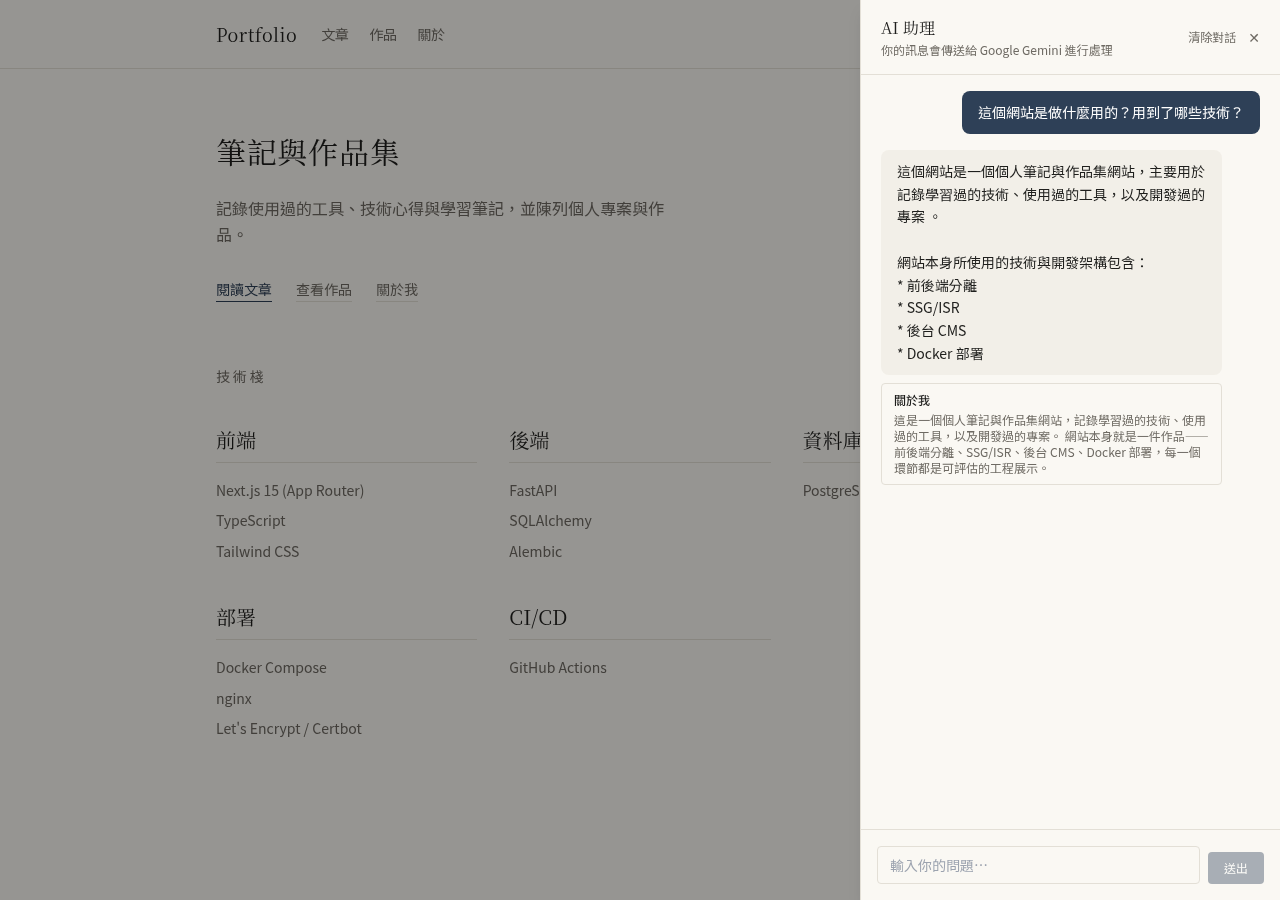
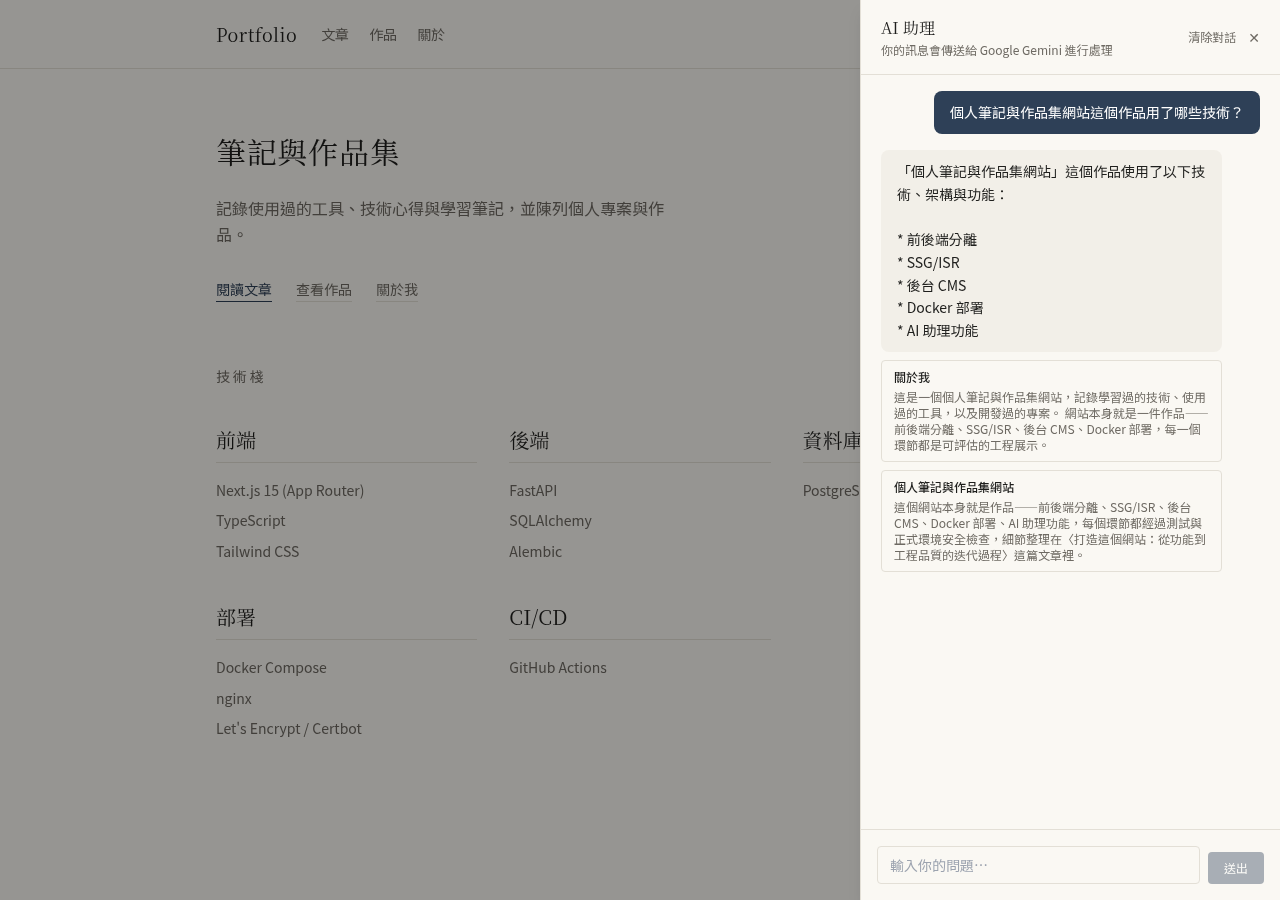
AI 助理檢索範圍加入已發布作品，補上規格書「第二階段」內容來源
- retriever.py 新增掃描已發布 Project（跟文章一樣，草稿一律排除），來源 ID 格式 project:{id}#chunk-{index}、URL 指向 /projects/{slug}，跟現有的 article/about 走同一套 chunking／relevance scoring
- 新增測試：retrieval 層驗證找得到已發布作品、排除草稿作品；聊天 API 層驗證草稿作品內容不會外洩、引用作品來源的完整 grounded 回答情境
- 修正一個本機測試才會踩到的問題：_keyword() 測試輔助函式原本用「測試主題」當前綴，這個字面上的「測試」剛好會跟本機資料庫裡真實存在、內容提到「測試」的文章/作品意外命中，導致原本預期「找不到相關內容」的測試改用真的 Gemini 呼叫、因為假 API key 而失敗；CI 用全新空資料庫不會踩到，但本機重跑測試會，改用不會跟真實內容衝突的字面
- 用瀏覽器對正式在跑的網站（已經有真的可用的 Gemini key）驗證整條路徑：確認回答會同時引用「關於我」跟一則「作品」，兩種來源類型都正確顯示、可點擊；用這張更完整的截圖換掉 README 裡原本只有單一來源的成功畫面
- 191 個後端測試全過，coverage 77%

過程中發現並修正一個副作用：本機用 docker compose exec backend pytest 重跑測試時，會跟正式在跑的網站共用同一個資料庫；AI 設定的「啟用某個 provider」邏輯會在同一個 transaction 內把所有 provider 都設成停用、再啟用目標 provider，測試裡建立/停用自己的 provider 設定時，順帶把使用者真正在用的那筆也停用了。已手動恢復，之後跑本機測試後會記得檢查 /api/ai/status 是否還是啟用狀態。

Changed region(s): [[0.6875, 0.1867, 0.9375, 0.6222], [0.7188, 0.0933, 0.9062, 0.1556]]

diff --git a/backend/tests/test_ai_chat_endpoint.py b/backend/tests/test_ai_chat_endpoint.py
@@ -44,8 +44,27 @@ def _publish_article(auth_client, cleanup, keyword: str, content_suffix: str = "
     return article
 
 
+def _publish_project(auth_client, cleanup, keyword: str):
+    res = auth_client.post(
+        "/api/projects",
+        json={
+            "title": f"聊天測試作品 {keyword}",
+            "content_md": f"這個作品介紹 {keyword} 相關的技術細節。",
+            "status": "published",
+        },
+    )
+    assert res.status_code == 201
+    project = res.json()
+    cleanup("projects", project["id"])
+    return project
+
+
 def _keyword() -> str:
-    return f"測試主題{uuid.uuid4().hex[:8]}"
+    # 故意不用「測試」這種常見詞當前綴——本機開發資料庫裡真的有提到
+    # 「測試」的正式內容（例如關於這個專案本身的文章／作品），用太
+    # 常見的字當關鍵字前綴，本機重複執行測試時容易跟真實內容意外
+    # 命中，CI 用的是全新空資料庫才不會有這個問題。
+    return f"貓咪打字員{uuid.uuid4().hex[:8]}"
 
 
 def test_chat_returns_safe_error_when_enabled_provider_has_no_adapter(
@@ -177,6 +196,30 @@ def test_chat_returns_grounded_answer_with_valid_citation(auth_client, cleanup, 
 
 
 @respx.mock
+def test_chat_returns_grounded_answer_citing_a_project(auth_client, cleanup, client):
+    keyword = _keyword()
+    project = _publish_project(auth_client, cleanup, keyword)
+    _enable_gemini(auth_client, cleanup)
+    reset_rate_limit(_TEST_CLIENT_KEY)
+    try:
+        chunk_id = f"project:{project['id']}#chunk-0"
+        respx.post(_GEMINI_URL).mock(
+            return_value=_gemini_success(f"這是關於{keyword}的說明 [來源: {chunk_id}]。")
+        )
+
+        res = client.post("/api/ai/chat", json={"message": keyword})
+        assert res.status_code == 200
+        data = res.json()
+        assert data["grounded"] is True
+        assert len(data["sources"]) == 1
+        assert data["sources"][0]["id"] == chunk_id
+        assert data["sources"][0]["source_type"] == "project"
+        assert data["sources"][0]["url"] == f"/projects/{project['slug']}"
+    finally:
+        reset_rate_limit(_TEST_CLIENT_KEY)
+
+
+@respx.mock
 def test_chat_downgrades_to_fallback_when_model_hallucinates_source(auth_client, cleanup, client):
     """模型引用了不存在的 source id（幻覺），後端必須降級成明確拒答，
     不能把沒有真實依據的回答原封不動回給使用者。"""
@@ -212,6 +255,30 @@ def test_chat_never_returns_draft_article_content(auth_client, cleanup, client):
     )
     assert res.status_code == 201
     cleanup("articles", res.json()["id"])
+    _enable_gemini(auth_client, cleanup)
+    reset_rate_limit(_TEST_CLIENT_KEY)
+    try:
+        res = client.post("/api/ai/chat", json={"message": keyword})
+        assert res.status_code == 200
+        data = res.json()
+        assert data["grounded"] is False
+        assert "機密草稿" not in data["answer"]
+    finally:
+        reset_rate_limit(_TEST_CLIENT_KEY)
+
+
+def test_chat_never_returns_draft_project_content(auth_client, cleanup, client):
+    keyword = _keyword()
+    res = auth_client.post(
+        "/api/projects",
+        json={
+            "title": "草稿作品不該被聊天功能看到",
+            "content_md": f"這是關於 {keyword} 的機密草稿內容。",
+            "status": "draft",
+        },
+    )
+    assert res.status_code == 201
+    cleanup("projects", res.json()["id"])
     _enable_gemini(auth_client, cleanup)
     reset_rate_limit(_TEST_CLIENT_KEY)
     try:

diff --git a/backend/app/services/retrieval/retriever.py b/backend/app/services/retrieval/retriever.py
@@ -6,6 +6,7 @@ from sqlalchemy.ext.asyncio import AsyncSession
 
 from app.models.about_content import AboutContent
 from app.models.article import Article, ArticleStatus
+from app.models.project import Project
 
 from .chunking import chunk_markdown
 
@@ -82,10 +83,10 @@ def _chunks_for_source(
 
 
 async def retrieve(db: AsyncSession, query: str, top_k: int = 5) -> list[RetrievedChunk]:
-    """關鍵字檢索：只從已發布文章與「關於我」內容取材，依關鍵字命中
-    次數排序，回傳最相關的前 top_k 個片段。沒有任何內容通過最低相關度
-    門檻時回傳空列表——呼叫端應據此判斷是否要讓模型明確拒答，而不是
-    硬塞不相關的內容進 prompt。
+    """關鍵字檢索：只從已發布文章、已發布作品與「關於我」內容取材，
+    依關鍵字命中次數排序，回傳最相關的前 top_k 個片段。沒有任何內容
+    通過最低相關度門檻時回傳空列表——呼叫端應據此判斷是否要讓模型
+    明確拒答，而不是硬塞不相關的內容進 prompt。
     """
     query_tokens = _tokenize(query)
     if not query_tokens:
@@ -105,6 +106,19 @@ async def retrieve(db: AsyncSession, query: str, top_k: int = 5) -> list[Retriev
                 title=article.title,
                 url=f"/blog/{article.slug}",
                 source_type="article",
+            )
+        )
+
+    projects_result = await db.execute(select(Project).where(Project.status == "published"))
+    for project in projects_result.scalars().all():
+        candidates.extend(
+            _chunks_for_source(
+                content_md=project.content_md,
+                query_tokens=query_tokens,
+                id_prefix=f"project:{project.id}",
+                title=project.title,
+                url=f"/projects/{project.slug}",
+                source_type="project",
             )
         )
 

diff --git a/backend/tests/test_retrieval.py b/backend/tests/test_retrieval.py
@@ -33,6 +33,48 @@ async def test_retrieve_finds_published_article(auth_client, cleanup, db_session
 
 
 @pytest.mark.asyncio
+async def test_retrieve_finds_published_project(auth_client, cleanup, db_session):
+    keyword = _unique_keyword()
+    res = auth_client.post(
+        "/api/projects",
+        json={
+            "title": "檢索測試作品",
+            "content_md": f"這個作品的介紹包含 {keyword}，用來測試檢索功能是否正常運作。",
+            "status": "published",
+        },
+    )
+    assert res.status_code == 201
+    project = res.json()
+    cleanup("projects", project["id"])
+
+    results = await retrieve(db_session, keyword, top_k=5)
+    assert len(results) == 1
+    assert results[0].source_type == "project"
+    assert results[0].title == "檢索測試作品"
+    assert results[0].url == f"/projects/{project['slug']}"
+    assert results[0].id == f"project:{project['id']}#chunk-0"
+    assert keyword in results[0].snippet
+
+
+@pytest.mark.asyncio
+async def test_retrieve_excludes_draft_projects(auth_client, cleanup, db_session):
+    keyword = _unique_keyword()
+    res = auth_client.post(
+        "/api/projects",
+        json={
+            "title": "草稿作品不應該被檢索到",
+            "content_md": f"這個草稿作品包含 {keyword}。",
+            "status": "draft",
+        },
+    )
+    assert res.status_code == 201
+    cleanup("projects", res.json()["id"])
+
+    results = await retrieve(db_session, keyword, top_k=5)
+    assert results == []
+
+
+@pytest.mark.asyncio
 async def test_retrieve_excludes_draft_articles(auth_client, cleanup, db_session):
     keyword = _unique_keyword()
     res = auth_client.post(

diff --git a/README.md b/README.md
@@ -23,7 +23,7 @@
 - JWT 帳密登入（單一管理者，無公開註冊）
 - 全文搜尋、標籤 / 分類頁、RSS 訂閱、深色模式
 - SEO：sitemap、Open Graph、JSON-LD 結構化資料
-- AI 助理：以網站已發布文章／關於我頁面為依據回答問題（keyword retrieval + citation 驗證，非向量搜尋），只回答有真實來源支撐的內容，找不到依據時明確拒答；後台可設定 provider（Gemini、OpenAI、Claude、OpenAI 相容服務皆已完成）與 API key（加密儲存）
+- AI 助理：以網站已發布文章／作品／關於我頁面為依據回答問題（keyword retrieval + citation 驗證，非向量搜尋），只回答有真實來源支撐的內容，找不到依據時明確拒答；後台可設定 provider（Gemini、OpenAI、Claude、OpenAI 相容服務皆已完成）與 API key（加密儲存）
 
 ## 畫面
 
@@ -35,7 +35,7 @@
 | ![後台文章管理](./docs/screenshots/admin-articles.png) 後台文章管理 | ![後台 AI 助理設定](./docs/screenshots/admin-ai-settings.png) 後台 AI 助理設定 |
 | ![AI 助理回答成功](./docs/screenshots/ai-drawer-success.png) AI 助理：真實回答與來源引用卡片 | ![AI 助理錯誤處理](./docs/screenshots/ai-drawer-error.png) AI 助理：provider 失敗時的安全錯誤訊息 |
 
-> 兩張 AI 助理截圖都是真實情境，不是擺拍的假畫面：左邊是真的呼叫 Gemini API 拿到的回答，來源引用卡片對應「關於我」的實際內容，點下去會連到真正的頁面；右邊是刻意設一把會被 provider 拒絕的 API key 測出來的錯誤處理畫面，前端正確顯示安全訊息與重試按鈕，不會讓使用者看到系統內部錯誤。
+> 兩張 AI 助理截圖都是真實情境，不是擺拍的假畫面：左邊是真的呼叫 Gemini API 拿到的回答，同時引用了「關於我」與一則「作品」的實際內容（兩種來源類型都正確標示、都能點擊連到對應頁面）；右邊是刻意設一把會被 provider 拒絕的 API key 測出來的錯誤處理畫面，前端正確顯示安全訊息與重試按鈕，不會讓使用者看到系統內部錯誤。
 
 ## 本機開發
 
@@ -187,7 +187,7 @@ sequenceDiagram
     RL-->>API: 超過 → 429，未超過 → 繼續
     API->>DB: 查詢目前啟用的 provider 設定
     DB-->>API: provider / model / 加密 API key
-    API->>R: 用 message 檢索已發布文章 + 關於我
+    API->>R: 用 message 檢索已發布文章 + 已發布作品 + 關於我
     R-->>API: 相關度通過門檻的 chunks（可能為 0）
     alt 沒有 chunk 通過門檻
         API-->>U: 固定拒答文案，不呼叫 provider
